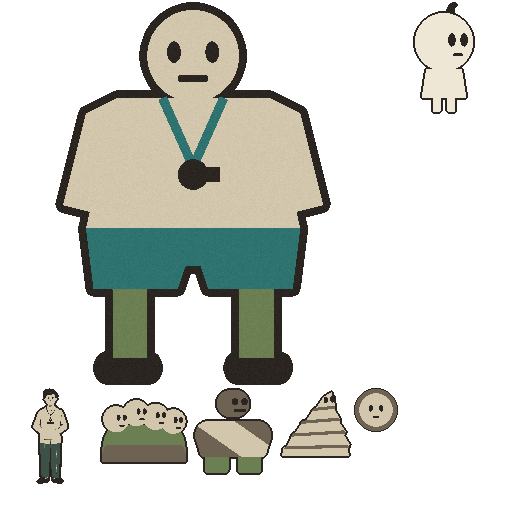
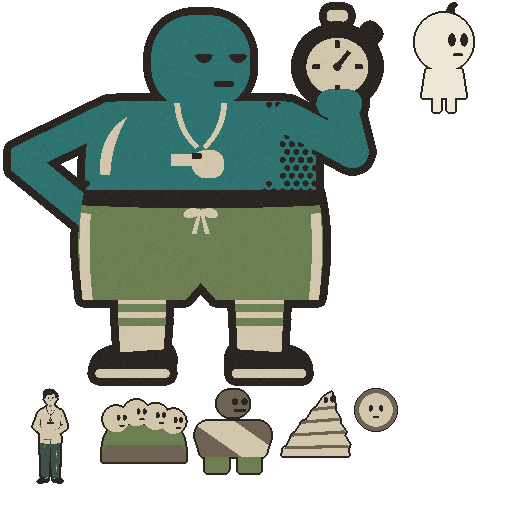
The Gym Teacher drawn: teal, fist on hip, eyes on the stopwatch; the atlas typed by its frames; HANDOFF says who holds what
The drawing from the cloud branch replaces main's on the same stage (it
passes CHECK there: median contrast 0.14). The whistle is bone, not gold,
because School's gold is the substitute's shot alone (G-031); §9 says so
now. HANDOFF.md is rewritten around a who-holds-what table after two
sessions built D-025 independently (D-026).

Claude-Session: https://claude.ai/code/session_01WQQxSLXSn7ibANx191ZfJc

diff --git a/src/data/act-visuals.ts b/src/data/act-visuals.ts
@@ -3,6 +3,10 @@ import conceptionAtlasJson from '../../assets/atlas/conception.json';
 import schoolAtlasPng from '../../assets/atlas/school.png';
 import schoolAtlasJson from '../../assets/atlas/school.json';
 
+export interface AtlasJson {
+  frames: Record<string, unknown>;
+}
+
 /**
  * Act PRESENTATION. Imported only by the renderer.
  *
@@ -15,7 +19,11 @@ import schoolAtlasJson from '../../assets/atlas/school.json';
 export interface ActVisuals {
   /** Act background, from the locked palette (ART-DIRECTION law 3). */
   background: number;
-  atlas: { key: string; png: string; json: object };
+  /**
+   * The atlas JSON is typed by its frame names so a test can ask whether a
+   * frame an act draws is actually in it, without a browser.
+   */
+  atlas: { key: string; png: string; json: AtlasJson };
   playerFrame: string;
   bossFrame: string;
   /**

diff --git a/src/sim/__tests__/race.test.ts b/src/sim/__tests__/race.test.ts
@@ -35,6 +35,7 @@ function place(w: World, id: string, x: number, y: number): void {
   w.enemies.push({
     uid: uid++,
     hitBySerial: 0,
+    hitByAreaSerial: 0,
     def,
     x,
     y,
@@ -46,6 +47,8 @@ function place(w: World, id: string, x: number, y: number): void {
     radius: def.radius,
     displaySize: def.displaySize,
     xp: def.xp,
+    consult: 0,
+    reload: 0,
   });
 }
 

diff --git a/HANDOFF.md b/HANDOFF.md
@@ -1,72 +1,39 @@
-# Handoff — 2026-09-27, late
+# Handoff — 2026-09-27, later still
 
-A living note for the next session, whichever machine it runs on. Overwrite
-it; it is not a record. Read `CLAUDE.md` first, then this.
+A living note for whichever session runs next. Overwrite it; it is not a
+record. Read `CLAUDE.md` first, then this. **Two sessions built the same
+step tonight (D-026) because this file was not updated on `main`. The
+"who holds what" table below exists so that does not happen again: take a
+step only if it is yours or unowned, and update this file on `main` when
+you take one.**
 
 ## Where everything is
 
 | What | Where | State |
 |---|---|---|
-| The game | <https://jalirkan.github.io/natural-causes/> | `main` at `0c8926a`: the reorientation (#3) and touch controls (#4). Deploys on every push to `main`. |
-| The one-life run (sim only) | branch `c/determined-tesla-satvj6`, commit `044f5c3` | `World` plays a sequence of acts, keeps items and level across the threshold, writes a `certificate` (act, age, cause). 265 tests green. Not drawn yet: the browser still runs a one-act life. |
-| Four design proposals | `DIRECTION-PANEL-2026-09-27.md` | Unjudged; the fifth (constraint auditor) never finished. Steal from, do not obey. |
-| Coherence pass | GitHub issue #5 | What "one run is one life" invalidates, four setups with no payoff, two tonal breaks. The checklist for G-038. |
-| Audit part three | nowhere | The cloud session was stopped before it pushed. Redo it: AUDIT.md-class defects in `world.ts`, `bots.ts`, `run.ts`. |
+| The game | <https://jalirkan.github.io/natural-causes/> | `main`. A two-act life, Conception then School, every sprite authored SVG. Deploys on every push to `main`. |
+| The sim | `src/sim/world.ts` | One life (D-024); upgrades are gains (G-038, G-039); the Egg is a race (G-040); School's three placeholders built and labelled (D-022); AUDIT part three's two fixes in, five items open with patches. |
+| Art | `tools/art/svg/<act>/<id>.svg`, `pnpm art:svg` | Main's stage (D-025). Twelve field sprites plus the Gym Teacher drawn. The review page: `pnpm art:sheet`. |
+| The Gym Teacher | `SCHOOL-ROSTER.md` §9 | Designed and drawn; **fights as the Egg** until his behaviour is built. |
+| Adolescence | `ADOLESCENCE-ROSTER.md` | Drafted by an agent, under review by the cloud session. Not data yet. |
+| Not wired yet | `src/audio/sfx.ts`, `src/meta/input-log.ts` | Four School sounds and the heading-hold log exist and are untested by ear; `ActScene` does not call them. |
+| Stale claims | `PLAYTEST-FINDINGS.md`, rosters, `ITEMS-BRIEF.md` | A sweep found G-014 and the 30-item cap still stated as live in several docs; being fixed after this merge. |
 
-Every cloud session, trigger and workflow from tonight is stopped or archived.
-Nothing is waiting on anyone.
+## Who holds what
 
-## Decided tonight, not yet written as records
-
-Write these as `D-024` (technical) and `G-038` (the batch retirement, with
-mechanism 1's two rejected alternatives) before building on them.
-
-1. **One run is one life.** Continuous, ~20–30 minutes, acts are phases, the
-   boss falling is the threshold, items and level persist, dying names the
-   age and cause, outliving the last act is natural causes. Built in the sim.
-2. **Art is authored, not generated.** Flat cartoon sprites as SVG in the
-   repo, rasterised with the `sharp` dependency already installed, run
-   through the existing CHECK stage and packed into the atlases. No fal, no
-   key, no money, every asset reproducible from source. The generate/cut/
-   conform stages retire; conform's palette quantisation and the checks stay.
-   The register is decided from a rendered batch judged by Justin at the
-   link, as before, but the batch costs nothing to make.
-3. **Retire:** G-014 (every item subtracts); the 30-item cap; G-019's "the
-   Egg does nothing" (keep G-006's absorption); law 8 as a *law* (keep
-   indifference as a flavour some enemies have); one-act-per-run; the
-   mid-century register for sprites (keep it for documents: cards,
-   certificate, title). All four proposals agree on these independently.
-4. **Keep:** D-007, the sim/bots split, the pipeline's checks, CI and the
-   deploy, G-003's face and cowlick, laws 1, 2, 5, 6, 7, 9, 10, 11 as
-   legibility rules.
-5. **No cloud fan-out.** Spawned sessions prompt Justin for every permission.
-   Parallelism is in-session workflows only, under the session's own
-   permissions; Opus for bounded implementation, Fable for judgement.
-
-## Next, in order — each ends visible at the link
-
-1. **Draw the life.** On the branch: `ActScene` follows `world.actIndex`
-   (preload every atlas in `ACTS`, swap visuals at the crossing), the HUD
-   shows age instead of minutes, and the end overlay is the certificate:
-   "Cause of death: Homework. Age 9." / "Natural causes. Age 12." Then merge
-   the branch to `main`.
-2. **D-024 and G-038**, using issue #5 as the checklist. Retire the stale
-   claims it lists in the same commit.
-3. **Upgrades are gains.** Life-vocabulary names for the seven (the panel
-   has three naming tables; pick one), a VS-shaped XP curve, weapon levels
-   that add things rather than only damage, one evolution end to end, and a
-   few new items. Every proposal's item list is usable.
-4. **A boss that does something.** The Egg as a race the rivals also run
-   (genre-purist proposal) or the Gym Teacher (two versions in the panel).
-5. ~~**SVG art.**~~ **Done for School** (D-025, `pnpm art:draw`,
-   `assets/svg/school/`): School is startable and the life is two acts. Still
-   to draw: Conception's set, so the register is consistent, and the Gym
-   Teacher once it is designed (the Egg stands in).
-6. School's three owed placeholders (substitute's attack, homework's arrival
-   point, monitor's stop), then the audit.
+| Step | Holder |
+|---|---|
+| Gym Teacher behaviour in the sim (§9): whistle relaunches every dodgeball, untouchable while one lives, PARTICIPATION | **cloud session** (in progress) |
+| Wire the four sounds and the input log into `ActScene`; a dev-panel readout of the log | **cloud session** |
+| Adolescence: roster review → enemies, ActDef, palette, drawings | **cloud session** |
+| AUDIT items 18, 20, 21 (Lash aims at the invulnerable; Wake standing still; Chemotaxis moves arena enemies) | **cloud session** |
+| Doc sweep for stale G-014 / budget / "not playable" claims | **cloud session** |
+| The report-card document at the crossing and the certificate as a document (the mid-century register is kept for documents) | unowned — good for the local session |
+| The Egg's G-006 frames (eyes closing, corona parting) | unowned |
+| Playing it and answering the six reaction questions in `README.md` | Justin |
 
 ## The prompt for the next session
 
-> Read CLAUDE.md, then HANDOFF.md, and do "Next, in order" starting at 1.
-> Work on `c/determined-tesla-satvj6` from its current tip. Merge to `main`
-> when green. Ask me only reaction questions.
+> Read CLAUDE.md, then HANDOFF.md. Take an unowned step, write your name
+> against it here on `main` first, and end with something visible at the
+> link. Ask Justin only reaction questions.

diff --git a/assets/prompts/boss-gym-teacher.md b/assets/prompts/boss-gym-teacher.md
@@ -4,10 +4,10 @@
 - **Act:** school
 - **Role:** boss
 - **Source:** authored SVG, `tools/art/svg/school/boss-gym-teacher.svg`
[2 lines of base64/hex data omitted]
 - **Rasteriser:** sharp 0.34.5 (libvips 8.17.3, librsvg 2.61.2)
-- **Render:** 1102.546 dpi, 4× supersampled and area-averaged
-- **Rendered:** 2026-09-27T22:58:56.466Z
+- **Render:** 91.076 dpi, 4× supersampled and area-averaged
+- **Rendered:** 2026-09-27T23:11:41.868Z
 - **Sprite size:** 384px
 
 **Why this life stage.** School is where the player is first organised into a crowd by someone who never touches them, and the whistle is how it is done.
@@ -20,13 +20,13 @@ the tallest thing in the act: a standing figure in gym shorts with a whistle on 
 
 | Check | Result | Measured | Expected |
 |---|---|---|---|
-| silhouette-area | pass | 0.4491 | 0.25–0.95 of canvas |
-| background-contrast | pass | 0.3956 | >= 0.12 median Oklab L from school-deep |
-| background-contrast-coverage | pass | 0.2021 | <= 0.4 of sprite may vanish into school-deep |
+| silhouette-area | pass | 0.6088 | 0.25–0.95 of canvas |
+| background-contrast | pass | 0.1425 | >= 0.12 median Oklab L from school-deep |
+| background-contrast-coverage | pass | 0.3554 | <= 0.4 of sprite may vanish into school-deep |
 | palette-conformance | pass | 0.0293 | <= 0.0353 Oklab from a palette entry |
 | palette-variety | pass | 4 | >= 3 distinct palette colours |
-| palette-dominance | pass | 0.5026 | no colour above 0.9 of the sprite |
-| readable-48px-silhouette | pass | 0.457 | >= 0.175 coverage at 48px |
-| readable-48px-structure | pass | 6 | >= 3 palette colours still visible at 48px |
+| palette-dominance | pass | 0.3548 | no colour above 0.9 of the sprite |
+| readable-48px-silhouette | pass | 0.6202 | >= 0.175 coverage at 48px |
+| readable-48px-structure | pass | 7 | >= 3 palette colours still visible at 48px |
 | enemy-value-ceiling | pass | 0.8512 | <= 0.856 Oklab L (bone); paper belongs to the player |
-| readable-48px-detail | pass | 0.3723 | >= 0.06 edge density at 48px |
+| readable-48px-detail | pass | 0.4532 | >= 0.06 edge density at 48px |

diff --git a/SCHOOL-ROSTER.md b/SCHOOL-ROSTER.md
@@ -497,8 +497,9 @@ a player name (§3.5).
 **What it is.** School's boss, standing where the boss spawns and never moving.
 Drawn as the whistle, the stopwatch and the shorts (law 9: the role, not the
 person); eyes on the watch, never on you (indifference kept as this boss's
-flavour). Boss teal body like the Egg's; the whistle is the act's gold, and
-it is the only gold on the boss.
+flavour). Boss teal body like the Egg's. The whistle is bone, not gold:
+School's gold belongs to the substitute's shot alone (§1, G-031), and a
+boss wearing it would say "aimed at you", which he never is.
 
 **What it does.** It never touches you. Its telegraph is the whistle rising;
 its attack is the whistle: every dodgeball on the field is relaunched at full
